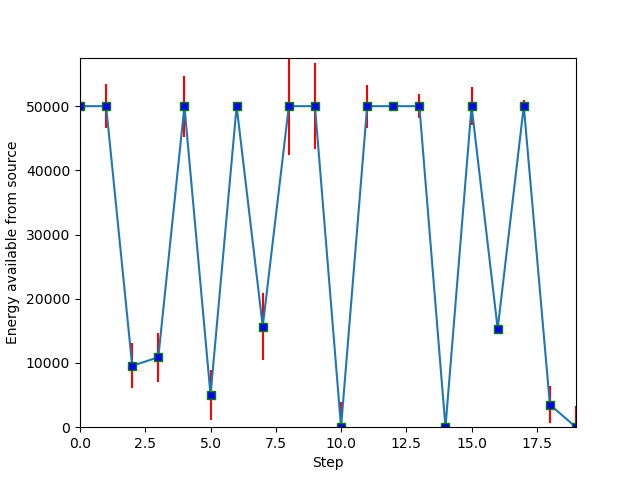
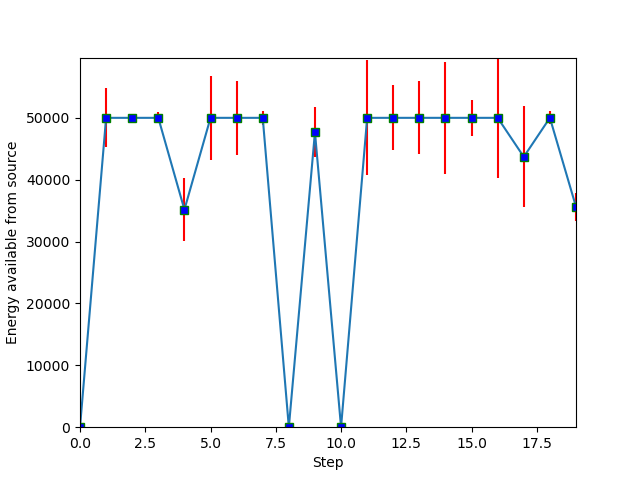
energy bugg corrected and po started

diff --git a/simulation.py b/simulation.py
@@ -120,11 +120,12 @@ class simulation():
         for agent in self.agent_list:
             if agent.name == "energy broker":
                 self.energy_history = agent.energy_history
+                print(len(self.energy_history))
                 self.plot(list(range(self.steps)), self.energy_history)
                 break
             else:
                 self.energy_history = "energy_history not found"
-        #print(self.energy_history)
+        
         
 
     def test(self,map1,gui):
@@ -159,7 +160,7 @@ class simulation():
         
         is_priority = True
         c = driver_assistant.driver_assistant(A, route, self.standard_batery_size , map1, is_priority)
-        
+        self.agent_list.append(c)
         
         
         #lng, lat = map1.get_random_point()
@@ -174,21 +175,14 @@ class simulation():
         a = energy_broker.energy_broker(lat,lng,self.step_of_disaster,self.total_energy_of_tick, self.total_evergy_of_simulation, self,  self.step_of_redistribuition, self.max_flactuation, self.min_flactuation)
         self.agent_list.append(a)
 
-        
-        
-        #agent_list.append(b)
-        #agent_list.append(c)
-        
-
         map1.add_agents(self.agent_list)
-        
         
         while self.current_step < self.steps:
         #for current_step in range(self.steps):
             if not self.stop_tog or self.do_step_arg:
-                a.act()
-                #c.animate()
-                d.act()
+                #for agent in self.agent_list:
+                    #agent.act()
+                c.animate()
 
 
 

diff --git a/map.py b/map.py
@@ -6,11 +6,7 @@ import osmnx as ox
 import settings 
 #import simulation
 from matplotlib import pyplot as plt
-
 import matplotlib.backends.backend_agg as agg
-
-
-
 from shapely.geometry import Point
 import geopandas
 import random
@@ -56,9 +52,12 @@ def make_plot(self,G):
     #lat = 38.7414116
     #lng = -9.143627785022142
     # correct previous things myabe create new plot
-    #if ( self.fig is None and self.ax is None ):
-    self.fig, self.ax = ox.plot_graph(G, fig_height=settings.fig_height, node_size=0, edge_color=ec, edge_linewidth=0.5, show=False, close=False, save=False,
-    filename=settings.place)
+    if ( self.fig is None and self.ax is None ):
+        self.fig, self.ax = ox.plot_graph(G, fig_height=settings.fig_height, node_size=0, edge_color=ec, edge_linewidth=0.5, show=False, close=False, save=False,
+        filename=settings.place)
+    else:
+        del self.ax.scatter
+    
 
     for agent in self.agent_list:
         try:

diff --git a/power_operative.py b/power_operative.py
@@ -8,7 +8,12 @@ class power_operative(geographic_agent.geographic_agent):
 				self.acumulated_energy = 0
 				self.storage_available = storage_available
 				self.available_for_tick = 0
-				#self.simulation.
+				self.simulation = simulation
+				self.ch_list = []
+				for i in self.simulation.agent_list:
+					if i.name == "charger handler":
+						self.ch_list.append(i)
+				self.report_list =[]
 
 		def act(self):
 
@@ -23,7 +28,9 @@ class power_operative(geographic_agent.geographic_agent):
 			pass
 
 		def ask_for_spending_report(self):
-
+			self.report_list =[]
+			for ch in ch_list:
+				report_list.append(ch.report_spent_energy())
 			pass
 
 		def give_power(self):
@@ -32,6 +39,7 @@ class power_operative(geographic_agent.geographic_agent):
 			pass 
 
 		def recieve_energy(self, energy):
+			print("PO give: "+ str( energy))
 			self.available_for_tick = self.storage_available + energy
 			#pass # current power = new + accumulated (form PO)
 

diff --git a/energy_broker.py b/energy_broker.py
@@ -41,12 +41,11 @@ class energy_broker(geographic_agent.geographic_agent):
     
     def do_power_redistribution(self): 
         print("redistribution")
-        self.energy_available =   self.total_energy_of_tick - random.uniform(self.flactuation_min, self.flactuation_max)
+        self.energy_available =  random.uniform(self.flactuation_min, self.flactuation_max) # """self.total_energy_of_tick -""" 
         pass
 
     def concede_energy_to_po(self):
         self.energy_history.append(self.energy_available)
-        print("eb give: "+ str( self.energy_available))
         self.power_operative.recieve_energy(self.energy_available)
         pass
 

diff --git a/settings.py b/settings.py
@@ -15,7 +15,7 @@ min_source_flactuation = 0.6
 standard_batery_size = 5000
 total_energy_of_tick = nr_vehicles*standard_batery_size
 total_evergy_of_simulation = simulation_time * total_energy_of_tick 
-step_time_milisec = 1000
+step_time_milisec = 1
 energy_price_buy = 0.002
 energy_price_sell = 0.01
 
